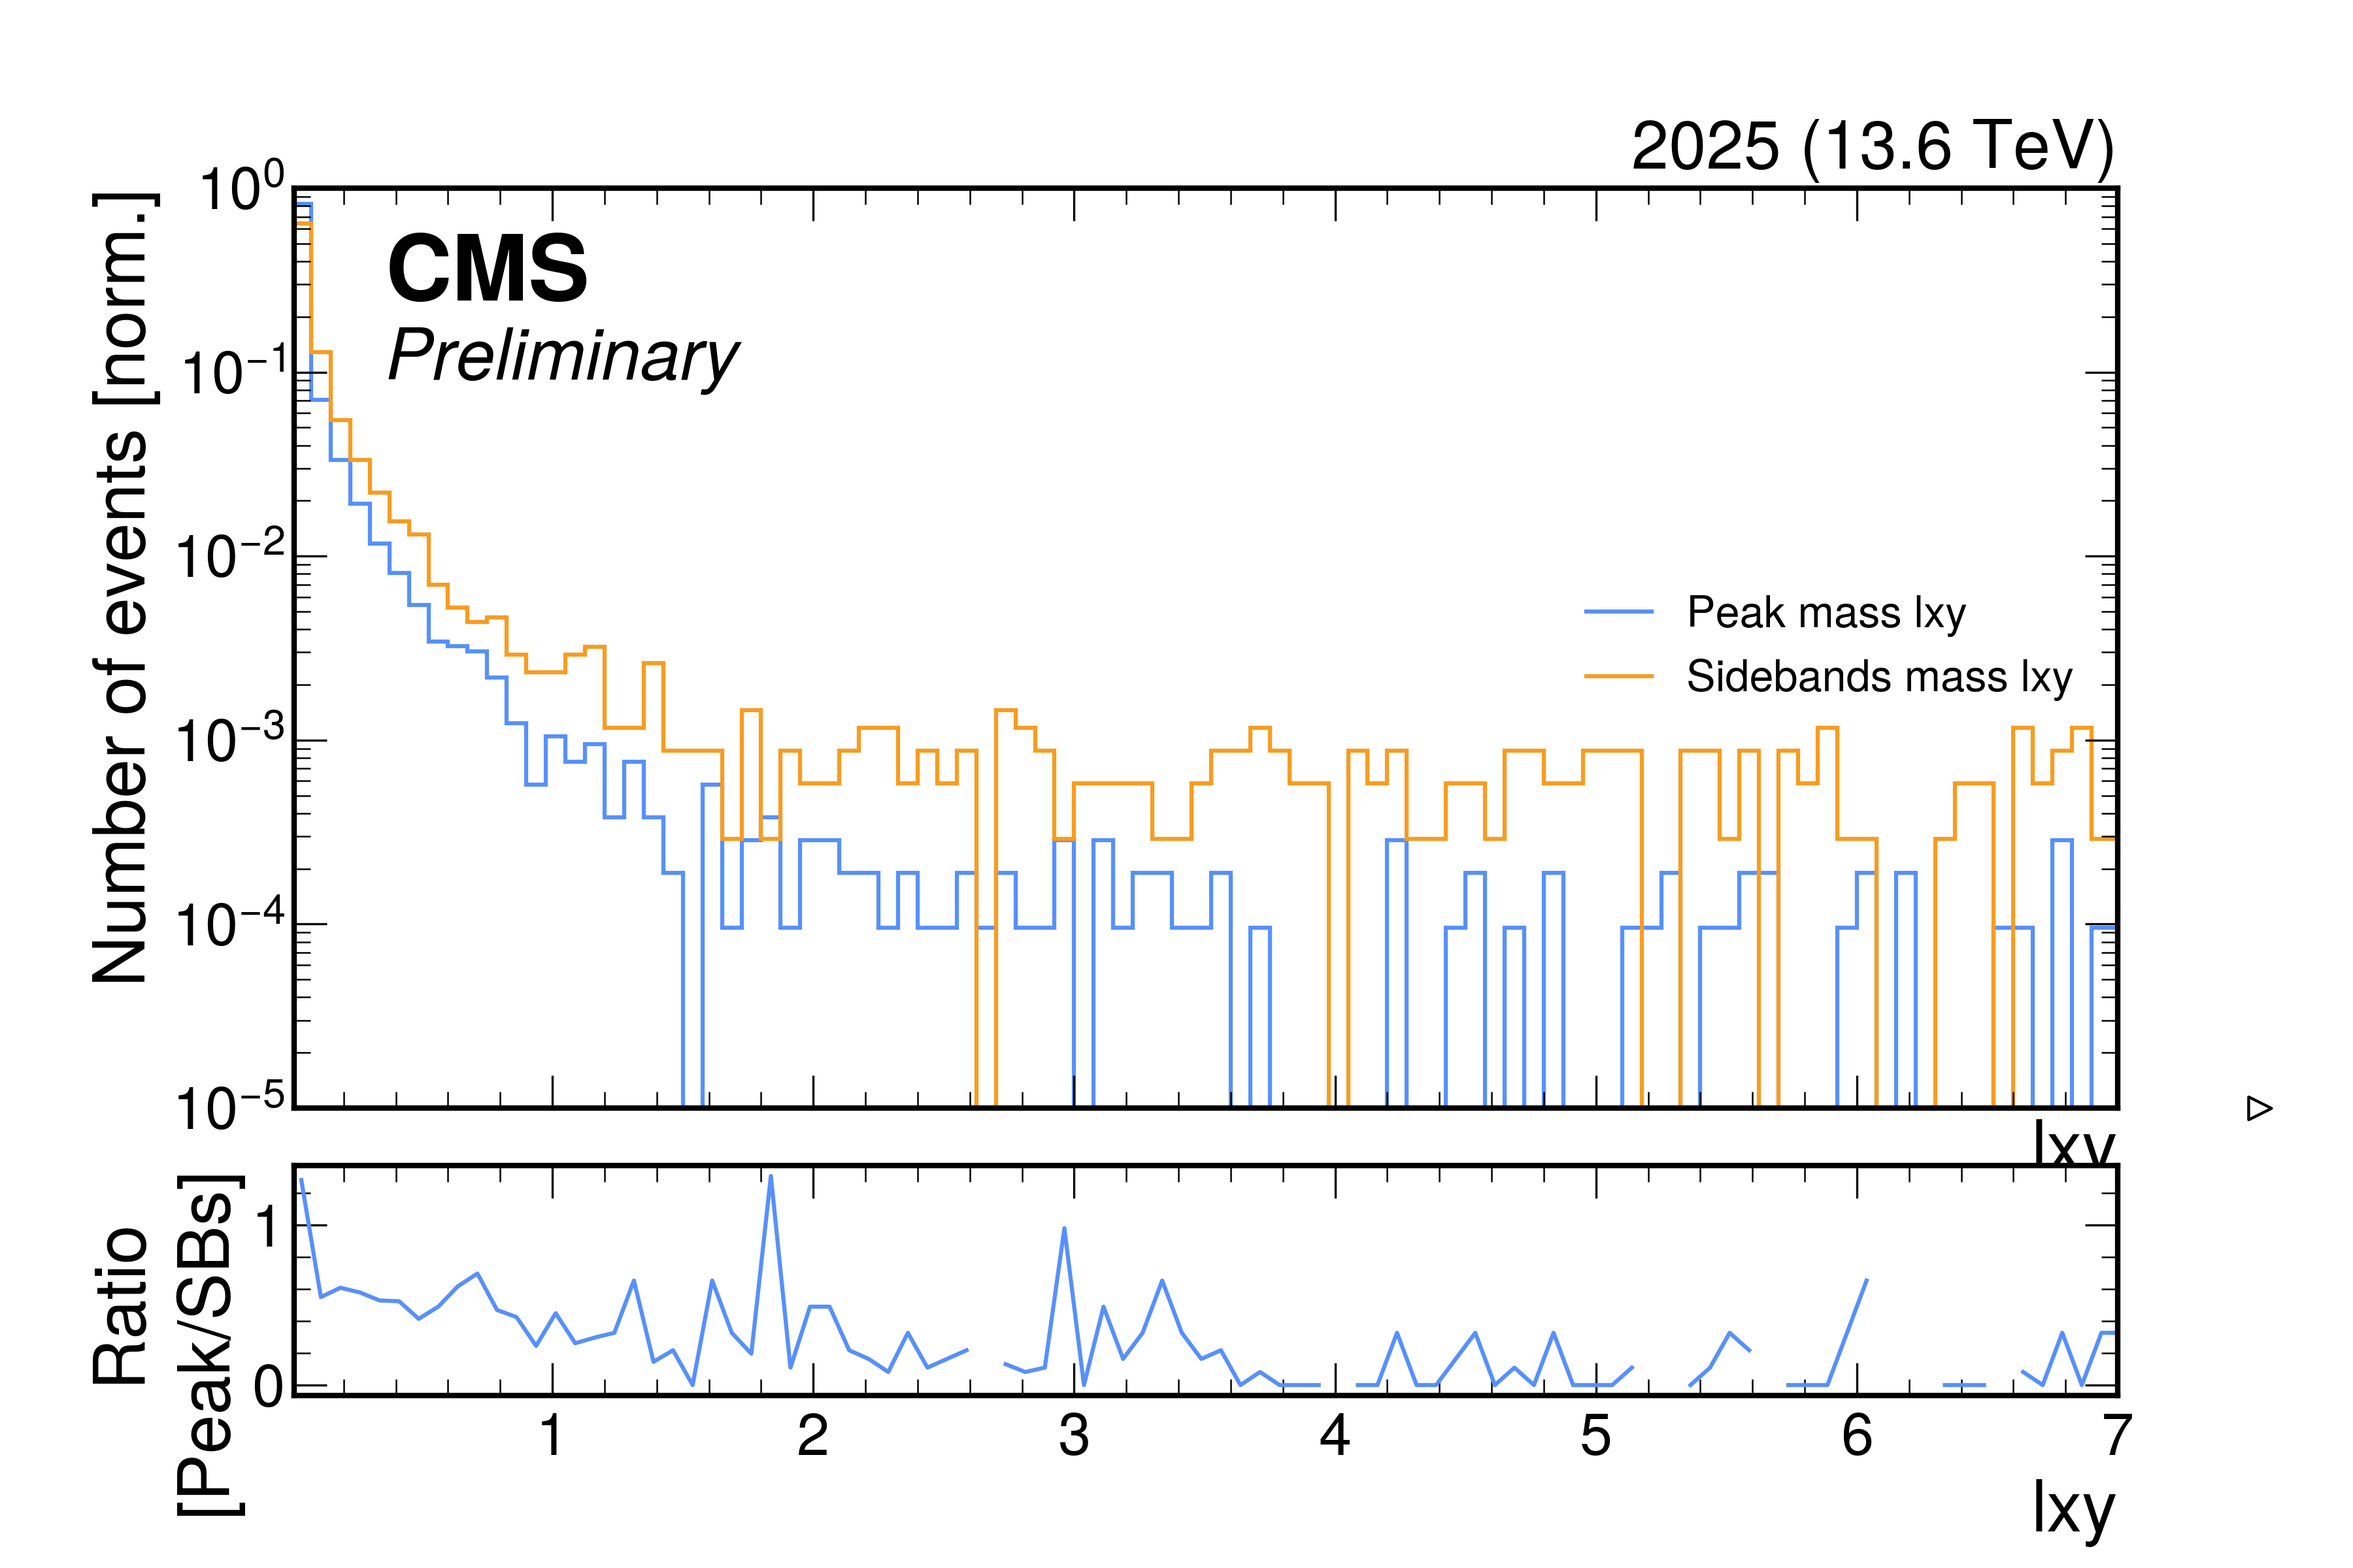
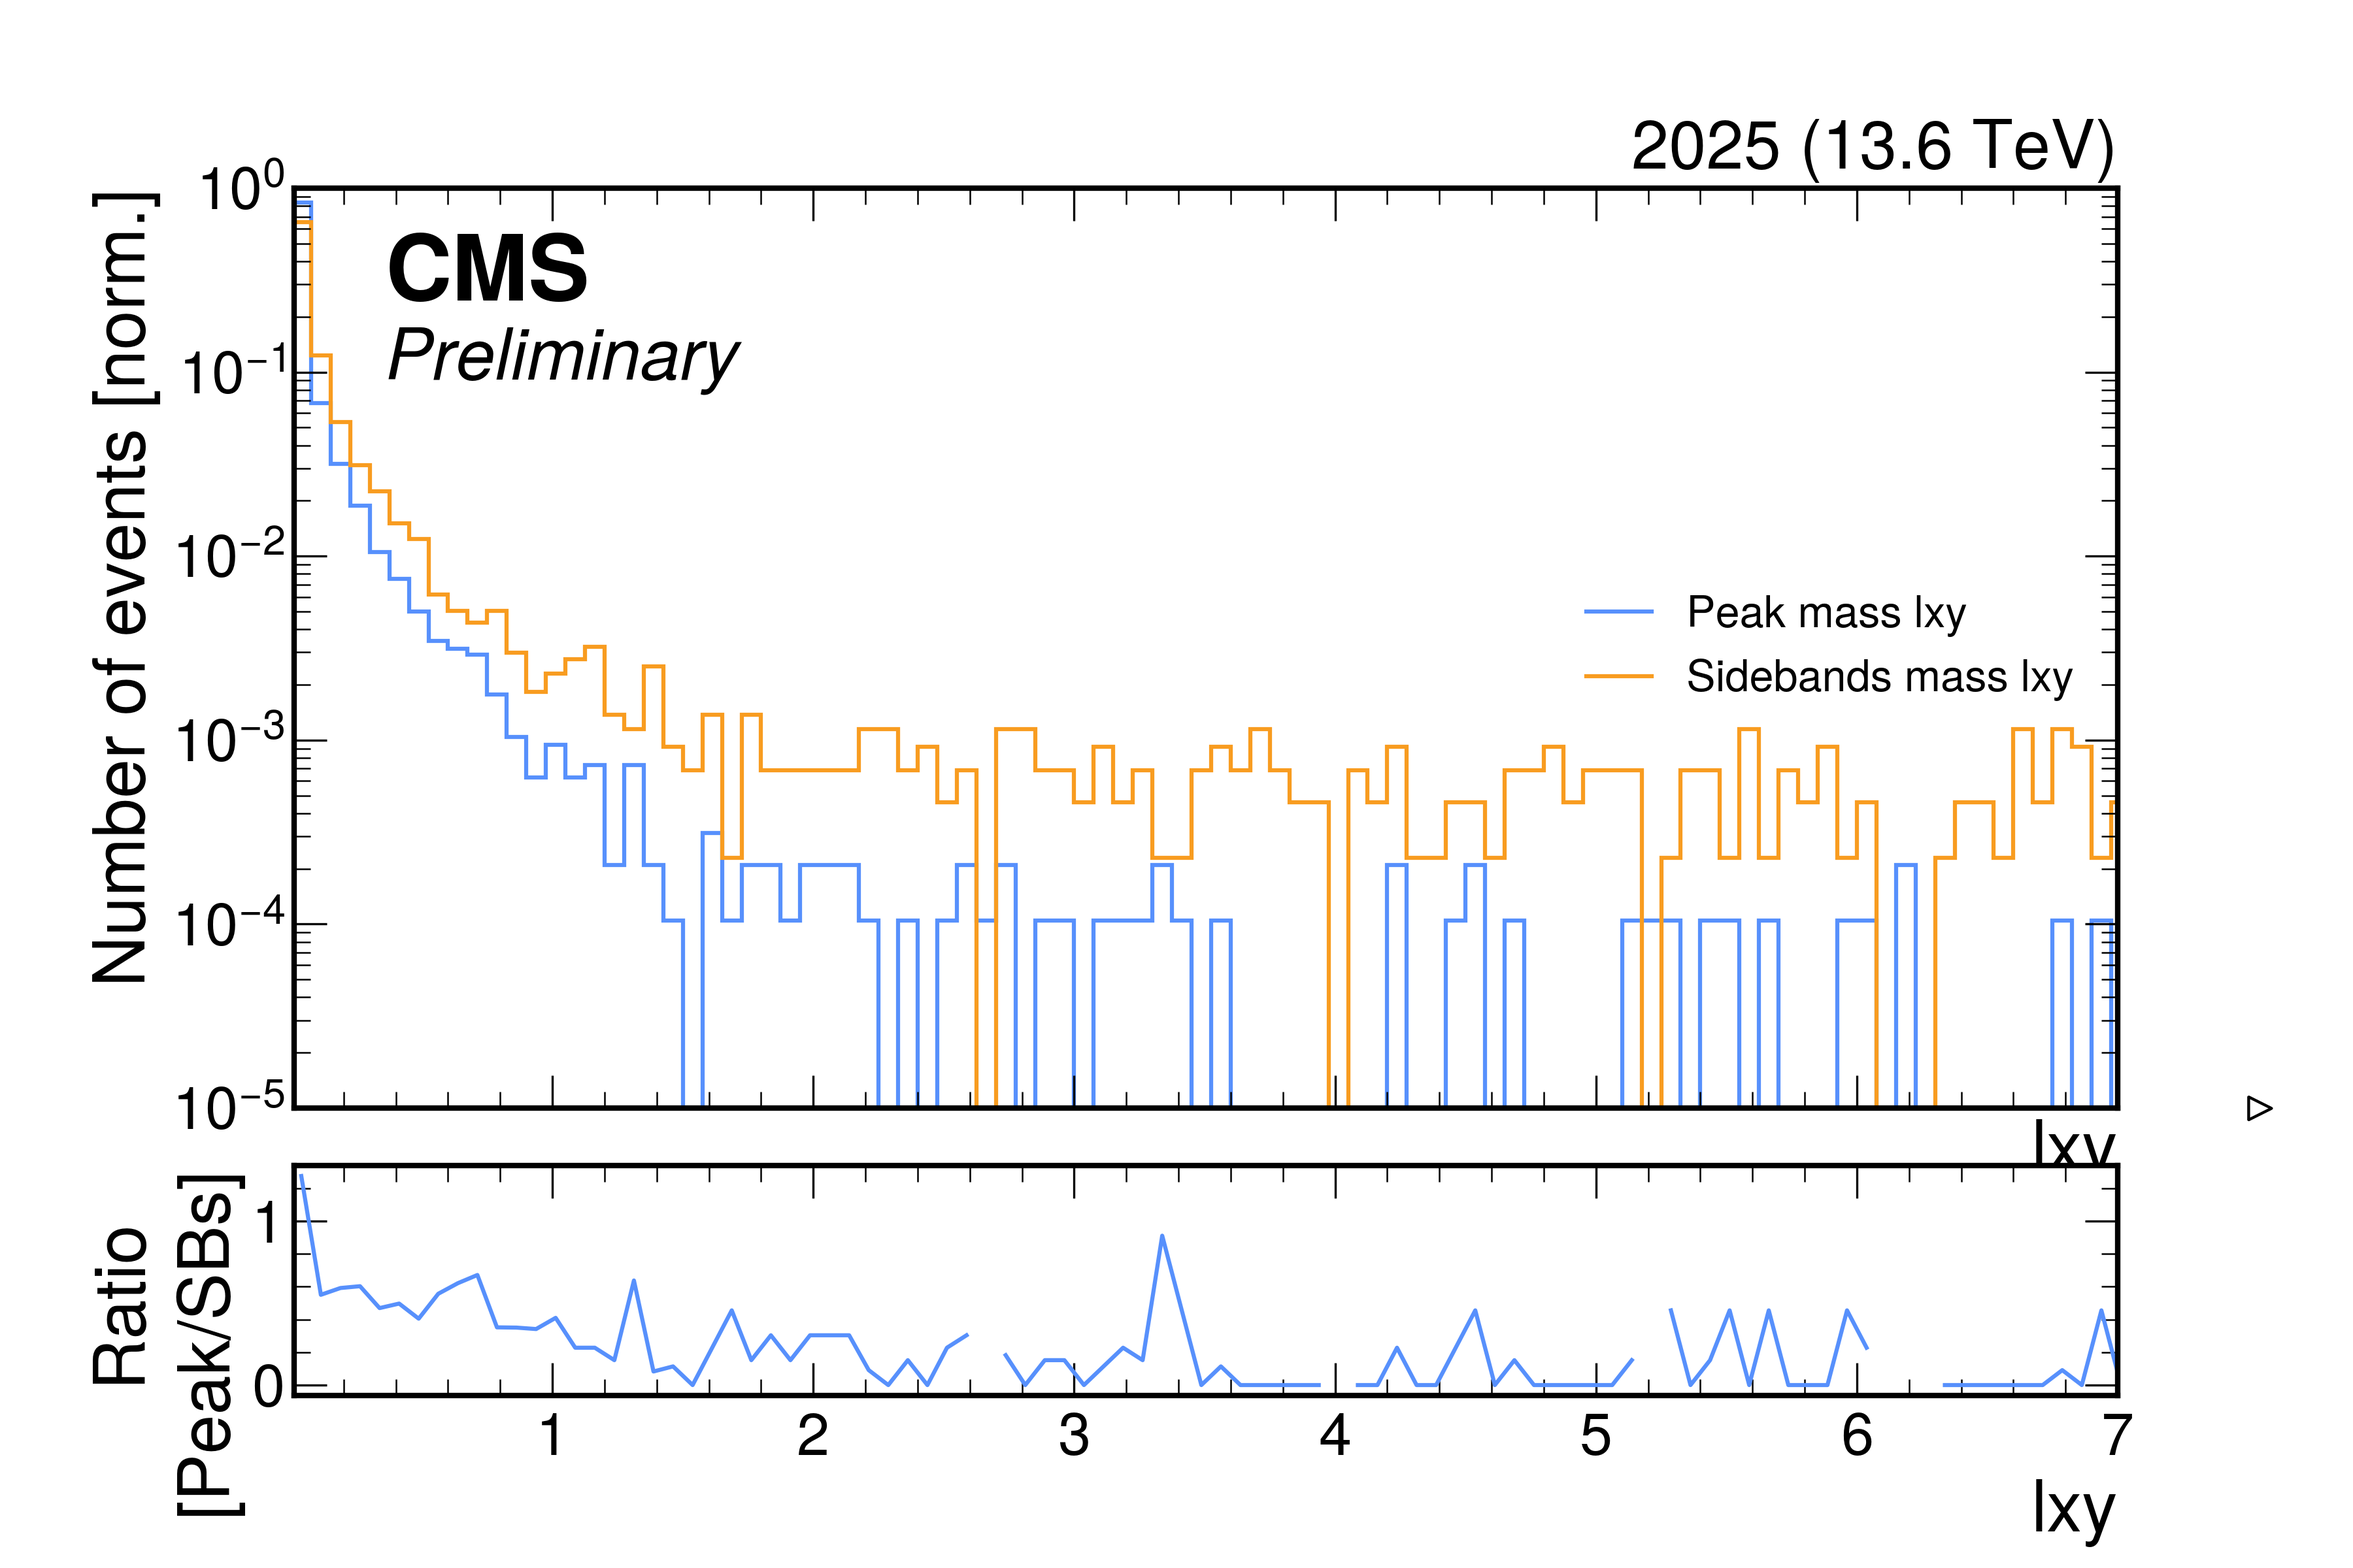
adjusted range of peak lxy

diff --git a/make.py b/make.py
@@ -161,18 +161,18 @@ for i in tqdm(range(len(events))):
     # 4100 first instance of [[0, 1], [0, 1, 2], [0, 1, 2]]
     # 4097 is interesting because it has -1,1,1,1 and [0,0] -> matches first two (nice test of the code!)
     nMuons = events["nScoutingMuon%s"%(MUON)][i]
-
+    '''
     print("~~~~~~~~~")
     print("Num Muons:", nMuons)
     print("Num Displaced Vertices:", events["nScoutingMuon%sDisplacedVertex"%(MUON)][i])
     print("ScoutingMuon%sVtxIndx_vtxIndx:"%(MUON), events["ScoutingMuon%sVtxIndx_vtxIndx"%(MUON)][i])
     print("ScoutingMuon%sDisplacedVertex_isValidVtx:"%(MUON), events["ScoutingMuon%sDisplacedVertex_isValidVtx"%(MUON)][i])
     print("Charges:", events["ScoutingMuon%s_charge"%(MUON)][i])
-
+    '''
     vertexListByMuonIndex = [] # corresponds directly to, for example, charge entries
     oVtxIndxArray = events[oVtxIndxString][i]
     for n in range(nMuons):
-        print("The %dth entry in oVtxIndxArray is:"%(n), oVtxIndxArray[n])
+        # print("The %dth entry in oVtxIndxArray is:"%(n), oVtxIndxArray[n])
         current_offset = oVtxIndxArray[n]
         if n != (nMuons-1): # if NOT the final entry, use explicit list slicing
             # print("%d is not the final entry"%(n))
@@ -180,7 +180,7 @@ for i in tqdm(range(len(events))):
             vertexSlice = events["ScoutingMuon%sVtxIndx_vtxIndx"%(MUON)][i][current_offset:next_offset] # exclusive
         else: # if it is the final entry, go to end of list
             vertexSlice = events["ScoutingMuon%sVtxIndx_vtxIndx"%(MUON)][i][current_offset::]
-        print("Vertex Slice for %d is:"%(n), vertexSlice)
+        # print("Vertex Slice for %d is:"%(n), vertexSlice)
         vertexListByMuonIndex.append(vertexSlice)
     vertexArrayByMuonIndex = ak.Array(vertexListByMuonIndex)
     # flatten a bit using really weird syntax
@@ -188,38 +188,38 @@ for i in tqdm(range(len(events))):
         -999 if len(subarray) == 0 else subarray[0] if len(subarray) == 1 else subarray
         for subarray in vertexArrayByMuonIndex
     ])
-    print("%d Vertices:"%(i), vertexArrayByMuonIndex)
+    # print("%d Vertices:"%(i), vertexArrayByMuonIndex)
 
     ### choice code for multiple vertices
     chi2s = events["ScoutingMuon%sDisplacedVertex_chi2"%(MUON)][i]
     ndofs = events["ScoutingMuon%sDisplacedVertex_ndof"%(MUON)][i]
     scores = chi2s/ndofs
-    print("chi^2:", chi2s)
-    print("ndof:", ndofs)
-    print("scores", scores)
+    # print("chi^2:", chi2s)
+    # print("ndof:", ndofs)
+    # print("scores", scores)
 
     '''This is about to get really ugly'''
     validVertices = np.sort(np.unique(ak.to_numpy(events["ScoutingMuon%sVtxIndx_vtxIndx"%(MUON)][i])))
     if len(validVertices) == 0:
         continue
-    print("Valid Vertices:", validVertices) # [0, 1, 2] for example
+    # print("Valid Vertices:", validVertices) # [0, 1, 2] for example
     isGoodVertex = [score <= 10 for score in scores]
 
-    print("Is a good vertex?", isGoodVertex)
+    # print("Is a good vertex?", isGoodVertex)
     try: 
         validVertices = validVertices[isGoodVertex] # Returns list of vertices that pass the score threshold.
     except IndexError: #Event 58005, any more?
         print("Event %d threw an Index Error; Size of scores != size of vertex list"%(i))
         continue
         indexErrRejected +=1
-    print("Now valid vertices:", validVertices)
+    # print("Now valid vertices:", validVertices)
 
     ###
 
     # stopgap
     try:
         maxVertexIdx = ak.max(vertexArrayByMuonIndex)
-        print("maxVertexIdx value is:", maxVertexIdx)
+        # print("maxVertexIdx value is:", maxVertexIdx)
         muonIndexArray = []
         for vertexIdx in range(maxVertexIdx + 1):
             # ak.where returns a tuple -> unpack
@@ -228,7 +228,7 @@ for i in tqdm(range(len(events))):
             # print("Index Array:", indexArray)
             # indexArray is of the form [[all indices for vtx 0], [all indices for vtx 1], ...]
             # so if vtx 0 is the vertex for two muons (for instance) then it is just [[0, 1]]
-        print("muonIndexArray:", muonIndexArray)
+        # print("muonIndexArray:", muonIndexArray)
 
         # From https://twiki.cern.ch/twiki/bin/view/CMSPublic/SWGuideOfflinePrimaryVertexProduction:
         '''
@@ -247,8 +247,8 @@ for i in tqdm(range(len(events))):
             # indices is the LIST OF MUON INDICES BELONGING TO EACH VERTEX
             sv_x = events["ScoutingMuon%sDisplacedVertex_x"%(MUON)][i][j]
             sv_y = events["ScoutingMuon%sDisplacedVertex_y"%(MUON)][i][j]
-            print("SV_x %d is"%(j), sv_x)
-            print("SV_y %d is"%(j), sv_y)
+            # print("SV_x %d is"%(j), sv_x)
+            # print("SV_y %d is"%(j), sv_y)
 
             dx = sv_x - pv_x
             dy = sv_y - pv_y
@@ -271,14 +271,14 @@ for i in tqdm(range(len(events))):
             E2  = np.sqrt(px2**2 + py2**2 + pz2**2 + mu_mass**2)
             
             invariant_mass = np.sqrt((E1 + E2)**2 - (px1 + px2)**2 - (py1 + py2)**2 - (pz1 + pz2)**2)
-            print("Invariant mass in GeV is ", invariant_mass)
-            if (invariant_mass >= 2.4 and invariant_mass < 2.9) or (invariant_mass > 3.3 and invariant_mass <= 3.8):
+            # print("Invariant mass in GeV is ", invariant_mass)
+            if (invariant_mass >= 2.4 and invariant_mass < 3.0) or (invariant_mass > 3.2 and invariant_mass <= 3.8):
                 h_lxy_sidebands.fill(lxy_sidebands=lxy)
-            elif (invariant_mass >= 2.9 and invariant_mass <= 3.3):
+            elif (invariant_mass >= 3.0 and invariant_mass <= 3.2):
                 h_lxy_peak.fill(lxy_peak=lxy)
     except ValueError:
         rejected += 1
-    print("Loop execution finished!")
+print("Loop execution finished!")
 with open (outdir+"/large_pickles/events%sLxyPickle.pkl"%(MUON), "wb") as pickleOut:
     pickle.dump(h_lxy, pickleOut)
     pickle.dump(lxy_range, pickleOut)
